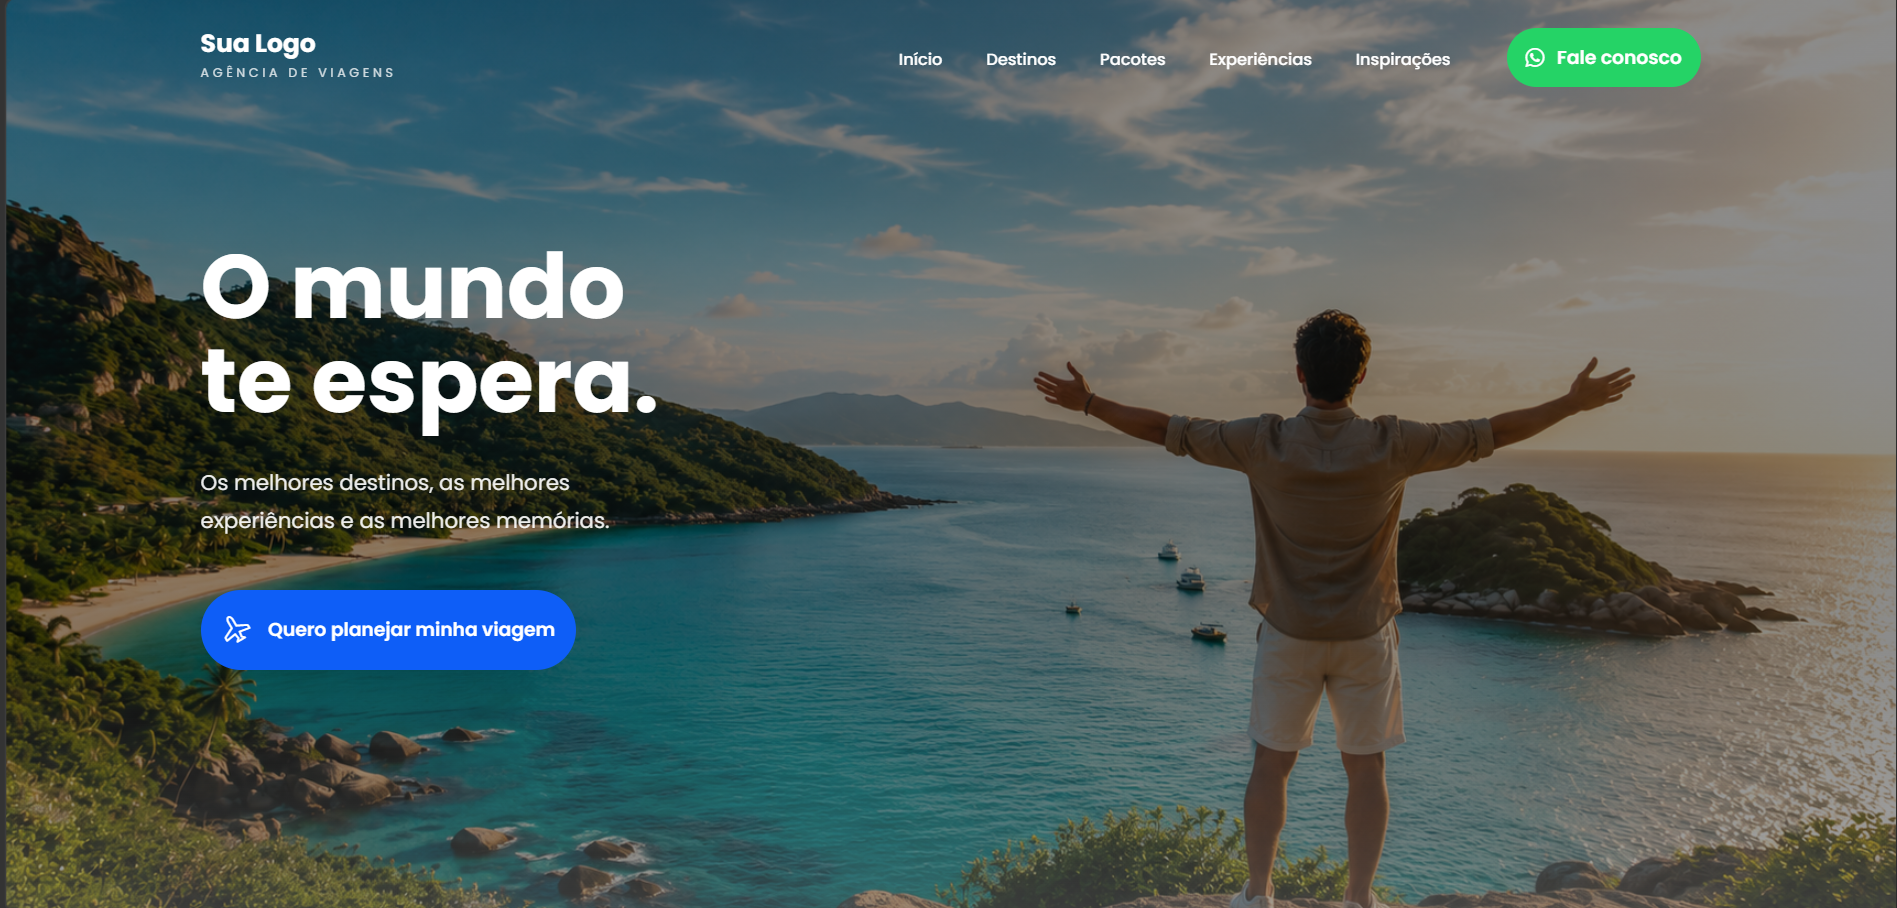
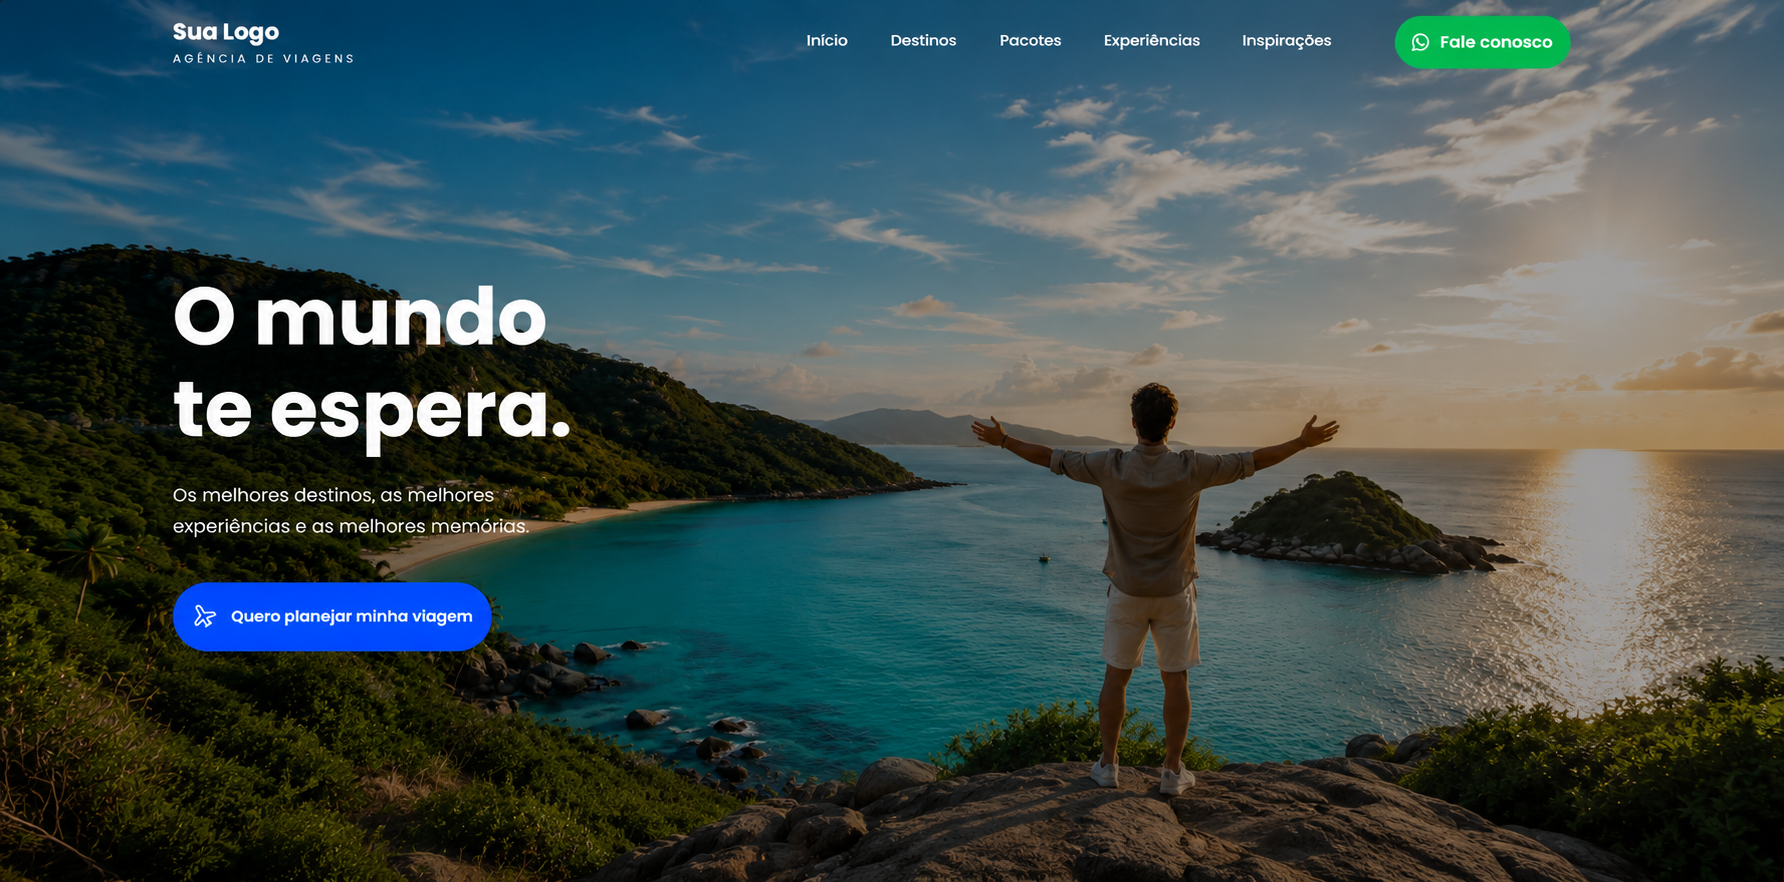
Imagens

diff --git a/index.html b/index.html
@@ -468,7 +468,7 @@
                 <div class="project-card project-card--landing">
 
                     <div class="project-card__image project-card__image--photo">
-                        <img src="img/clinica ordontologica.png" alt="Projeto de site de imobiliária">
+                        <img src="img/clinica-ordontologica.png" alt="Projeto de site de imobiliária">
                     </div>
 
                     <h3 class="project-card__title">Site para Clínica Odontológica</h3>